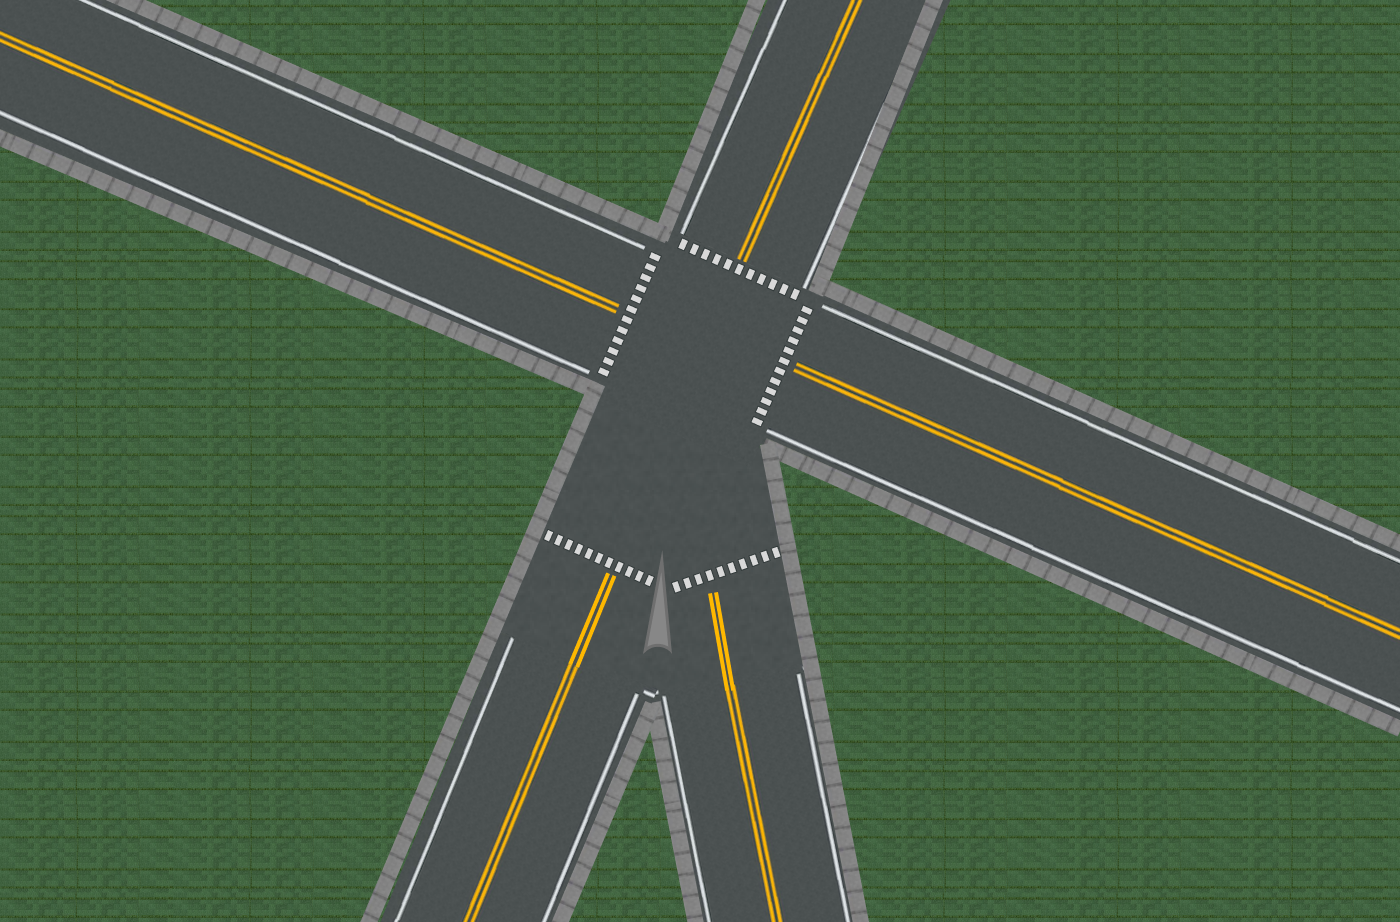
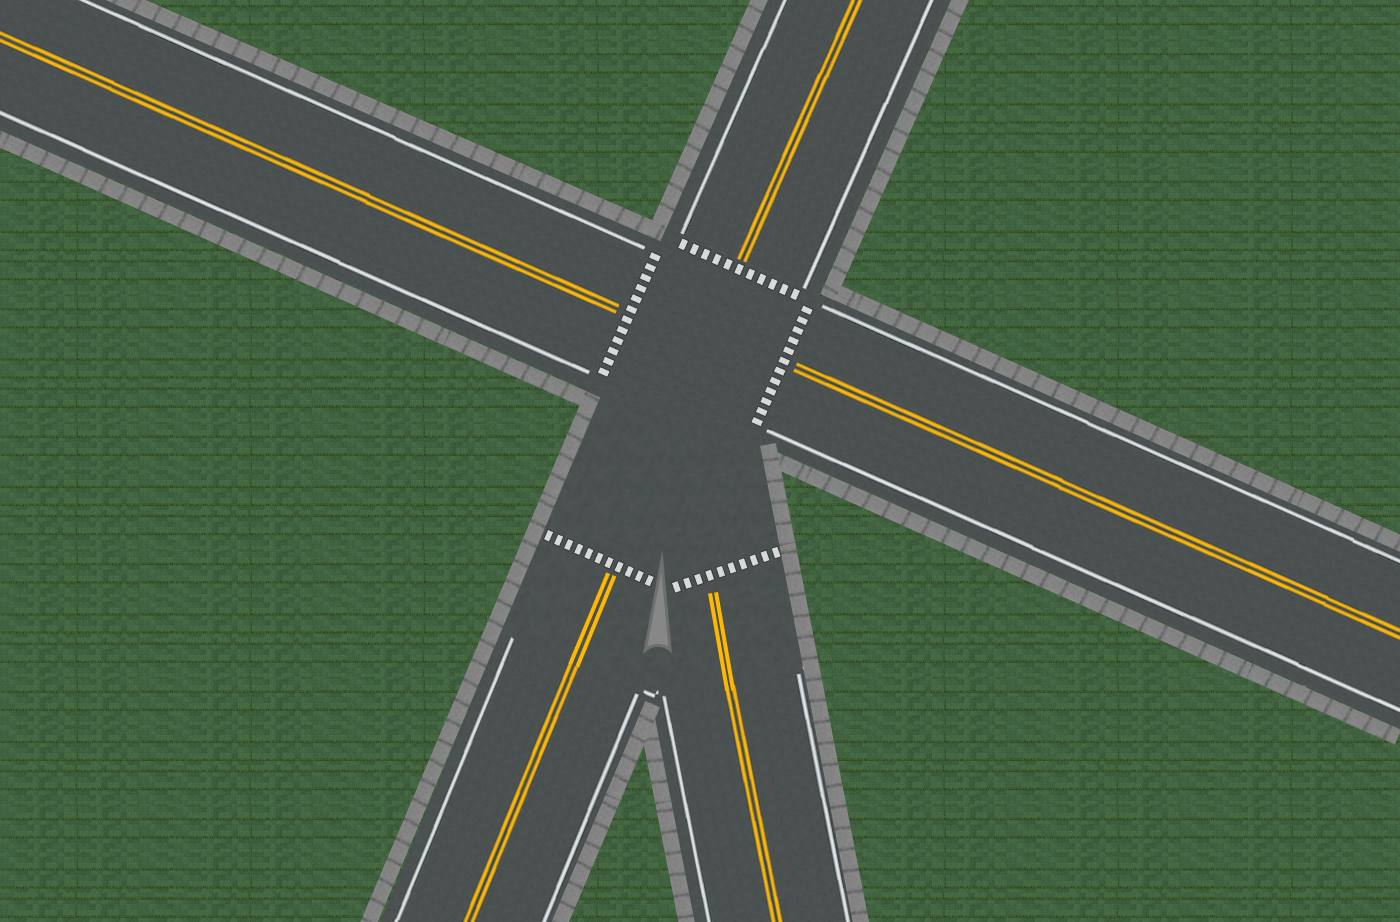
Update vehicle coordinates and signal rotation

diff --git a/simulation.py b/simulation.py
@@ -1,3 +1,4 @@
+import math
 import random
 import time
 import threading
@@ -41,18 +42,35 @@ speeds = {
 }
 
 # Coordenadas del comienzo de los vehículoss vehículos
+
+# custom
+# x = {
+#  'right': [0, 69, 56],
+#  'down': [759, 790, 816],
+#  'left': [1400, 1367, 1352],
+#  'up': [602, 506, 537]
+# }
+
+# y = {
+#  'right': [0, 0, 25],
+#  'down': [0, 0, 11],
+#  'left': [498, 553, 581],
+#  'up': [855, 855, 866]
+# }
+
+# original
 x = {
-    'right': [0, 0, 0],
-    'down': [755, 727, 697],
-    'left': [1400, 1400, 1400],
-    'up': [602, 627, 657]
+ 'right': [0, 0, 0],
+ 'down': [755, 727, 697],
+ 'left': [1400, 1400, 1400],
+ 'up': [602, 627, 657]
 }
 
 y = {
-    'right': [348, 370, 398],
-    'down': [0, 0, 0],
-    'left': [498, 466, 436],
-    'up': [800, 800, 800]
+ 'right': [348, 370, 398],
+ 'down': [0, 0, 0],
+ 'left': [498, 466, 436],
+ 'up': [800, 800, 800]
 }
 
 # Vehículos característicoscos
@@ -69,8 +87,11 @@ vehicleTypes = {0: 'car', 1: 'bus', 2: 'truck', 3: 'bike'}
 directionNumbers = {0: 'right', 1: 'down', 2: 'left', 3: 'up'}
 
 # Coordenadas de imagen de señal, temporizador y recuento de vehículos
+# signalCoods = [(608, 99), (886, 204), (479, 380), (824, 536)]
+# signalTimerCoods = [(608, 79), (886, 184), (479, 360), (824, 516)]
 signalCoods = [(530, 230), (810, 230), (810, 570), (530, 570)]
 signalTimerCoods = [(530, 210), (810, 210), (810, 550), (530, 550)]
+signal_rotation = [0, 0, -0, 0] # rotación de la señal
 
 # Coordenadas de líneas de parada
 stopLines = {'right': 590, 'down': 330, 'left': 800, 'up': 535}
@@ -128,6 +149,7 @@ vehicleCountTexts = ["0", "0", "0", "0"]
 
 # `vehicleCountCoods` son las coordenadas en la pantalla donde se mostrará el recuento de vehículos para cada dirección.
 vehicleCountCoods = [(480, 210), (880, 210), (880, 550), (480, 550)]
+# vehicleCountCoods = [(558, 79), (956, 184), (439, 360), (810, 516)]
 
 # peak hour
 peakHour = False
@@ -195,8 +217,10 @@ class Vehicle(pygame.sprite.Sprite):
         self.crossedIndex = 0
         # path of vehicle image
         path = f"images/{direction}/{vehicleClass}.png"
-        self.originalImage = pygame.image.load(path)
-        self.image = pygame.image.load(path)
+        originalImage = pygame.image.load(path)
+        image = pygame.image.load(path)
+        self.originalImage = pygame.transform.rotate(originalImage,0)
+        self.image = pygame.transform.rotate(image,0)
         previousVehicle = vehicles[direction][lane][self.index-1]
         self.image_width = self.image.get_rect().width
         self.image_height = self.image.get_rect().height
@@ -344,6 +368,7 @@ class Vehicle(pygame.sprite.Sprite):
         Esta función controla el movimiento de los vehículos en una simulación, incluido el manejo de cruces
         de intersecciones y giros.
         """
+
         if (self.crossed == 0 and self.y+self.image_height > stopLines[self.direction]):
             self.crossed = 1
             vehicles[self.direction]['crossed'] += 1
@@ -405,6 +430,7 @@ class Vehicle(pygame.sprite.Sprite):
         Esta función define el comportamiento de movimiento de un objeto de vehículo en una simulación,
         incluidas las condiciones para girar y cambiar de carril.
         """
+
         if (self.crossed == 0 and self.x < stopLines[self.direction]):
             self.crossed = 1
             vehicles[self.direction]['crossed'] += 1
@@ -799,13 +825,13 @@ class Main:
     button_image2 = pygame.image.load('images/buttons/buttonStop3_small.png')
 
     # Coordenadas del botón (parte superior izquierda de la pantalla)
-    button_rect = button_image1.get_rect(topleft=(0, 0))
+    button_rect = button_image1.get_rect(topleft=(screenWidth - button_image1.get_width(), 0))
 
     # Estado del botón
     button_state = 0
 
     # Setting background image i.e. image of intersection
-    background = pygame.image.load('images/intersection.png')
+    background = pygame.image.load('images/Av_casanovaV2.png')
 
     screen = pygame.display.set_mode(screenSize)
     pygame.display.set_caption("SIMULATION")
@@ -819,7 +845,7 @@ class Main:
     # threads (hilos de ejecucion) for generating vehicles and time of simulation
 
     # Generating vehicles
-    # Thread_generate_vehicle()
+    Thread_generate_vehicle()
 
     # Time of simulation
     # FISCAL DE TRANSITO
@@ -830,6 +856,8 @@ class Main:
     )
     thread3.daemon = True
     thread3.start()
+    def rotate(image, angle: float):
+        return pygame.transform.rotate(image, angle)
 
     # Main loop (while mientras el programa este corriendo)
     while True:
@@ -845,10 +873,10 @@ class Main:
                     # Ejecutar la función
                     if button_state == 1:
                         peakHour = True
-                        # Thread_generate_traffic()
+                        Thread_generate_traffic()
                     else:
                         peakHour = False
-                        # Thread_generate_vehicle()
+                        Thread_generate_vehicle()
 
         screen.blit(background, (0, 0))   # display background in simulation
         # Mostrar el botón correcto según el estado
@@ -859,21 +887,23 @@ class Main:
             # display the button
             screen.blit(button_image2, button_rect.topleft)
 
+
+
         # display signal and set timer according to current status: green, yello, or red
         for i in range(0, noOfSignals):
             if (i == currentGreen):
                 if (currentYellow == 1):
                     signals[i].signalText = signals[i].yellow
-                    screen.blit(yellowSignal, signalCoods[i])
+                    screen.blit(rotate(yellowSignal,signal_rotation[i]), signalCoods[i])
                 else:
                     signals[i].signalText = signals[i].green
-                    screen.blit(greenSignal, signalCoods[i])
+                    screen.blit(rotate(greenSignal,signal_rotation[i]), signalCoods[i])
             else:
                 if (signals[i].red <= 10):
                     signals[i].signalText = signals[i].red
                 else:
                     signals[i].signalText = "STOP"
-                screen.blit(redSignal, signalCoods[i])
+                screen.blit(rotate(redSignal,signal_rotation[i]), signalCoods[i])
         signalTexts = ["", "", "", ""]
 
         # display signal timer
